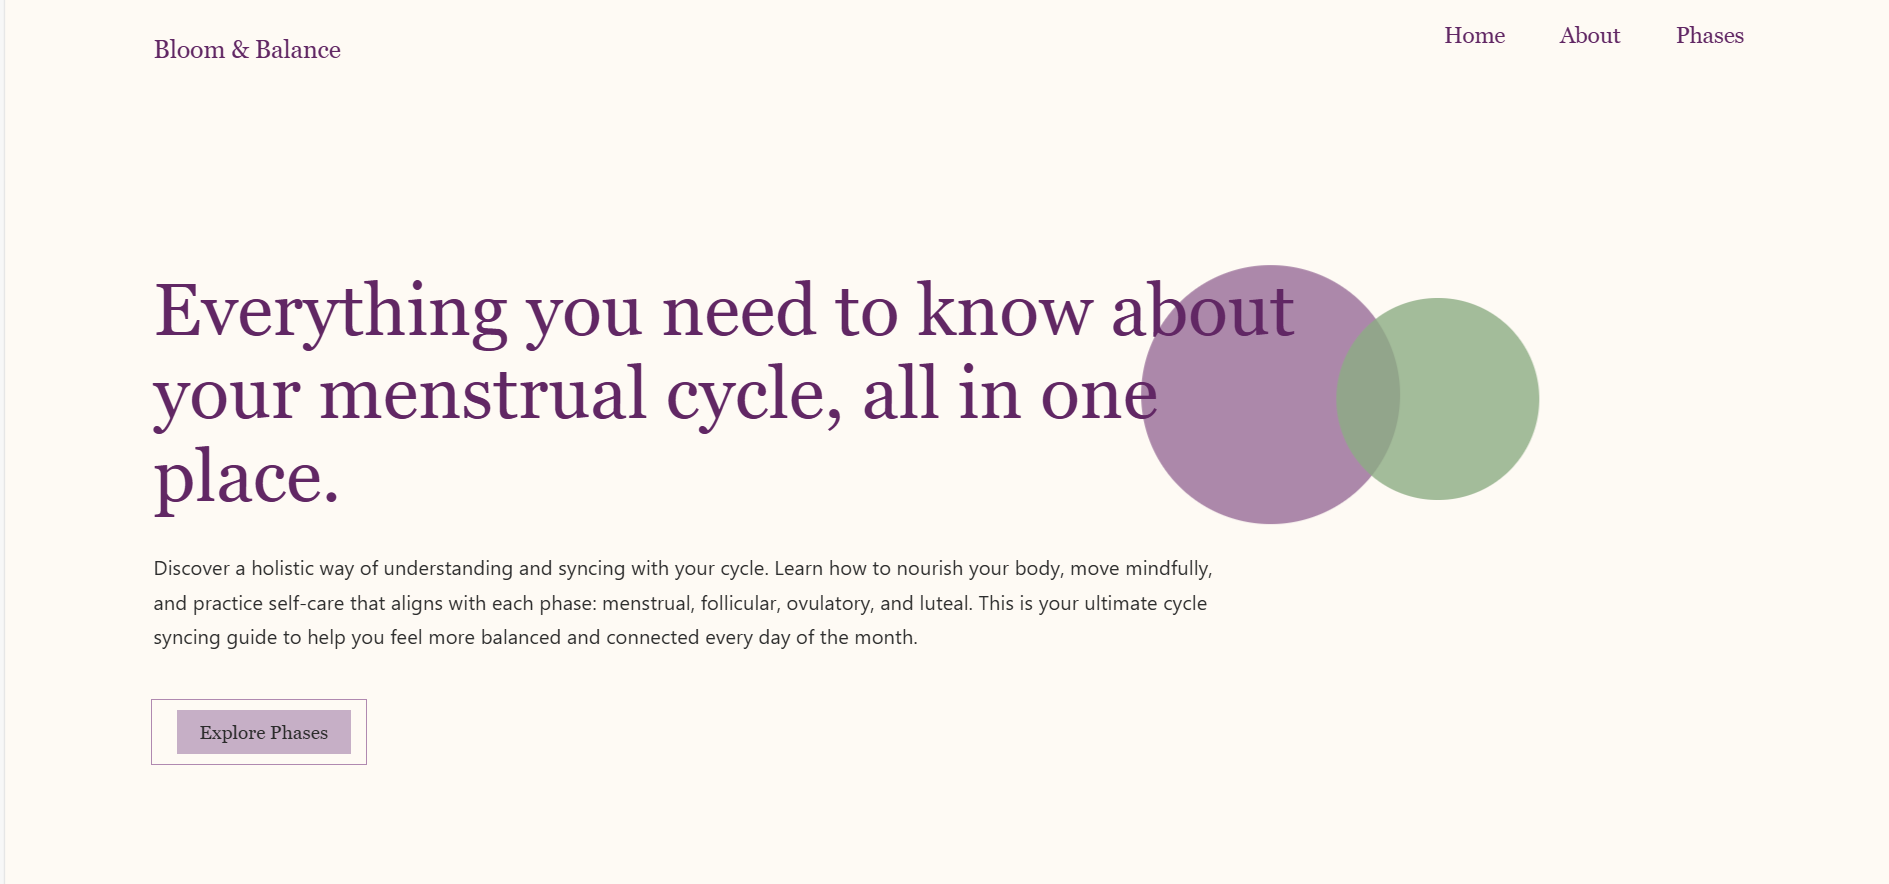
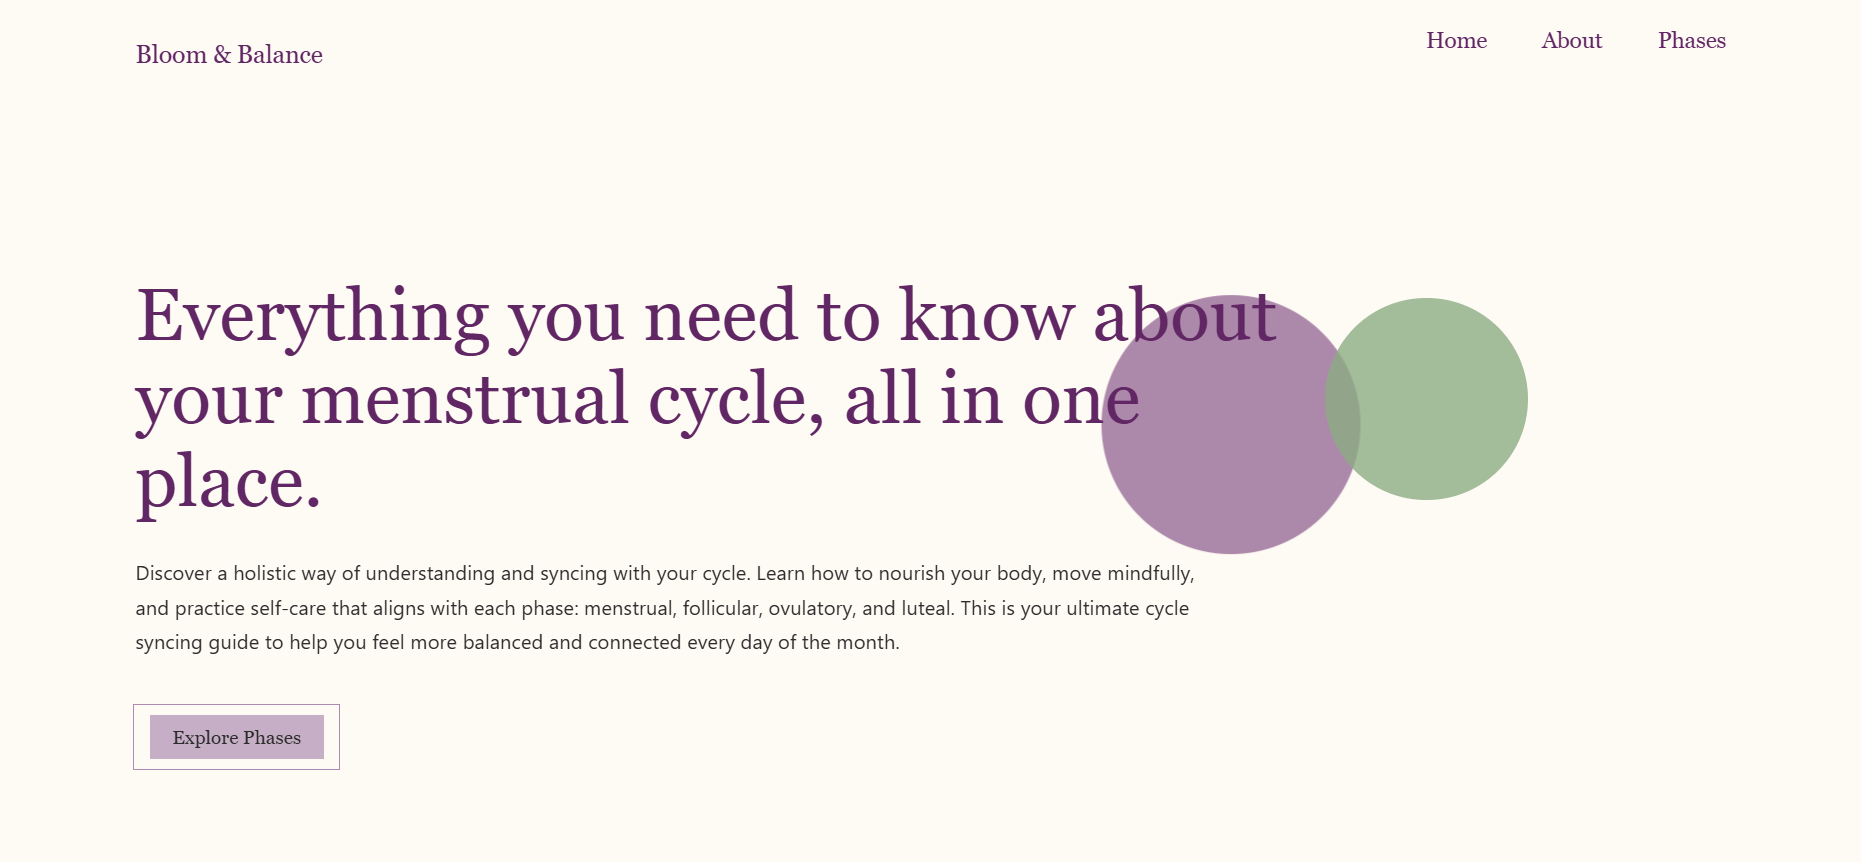
fixed homepage button

diff --git a/style.css b/style.css
@@ -158,6 +158,7 @@ nav ul li a:hover::after{
   color: #2c2c2c;
   background: #C6AFC6;
   color: #2c2c2c;
+  margin-left: 14px;
   display: inline-block;
   padding: 10px 20px;
   transition: background 0.3s ease;

diff --git a/index.html b/index.html
@@ -96,7 +96,7 @@
   const swiper = new Swiper('.swiper', {
   loop: true,
   autoplay: {
-    delay: 3000,
+    delay: 2000,
     disableOnInteraction: false,
     pauseOnMouseEnter: true,
   },
